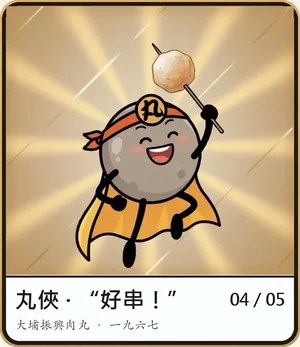
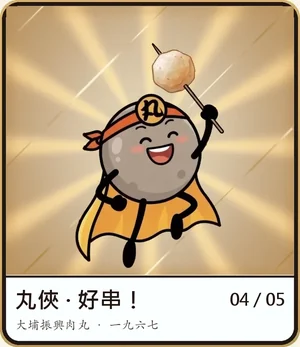
集卡活動頁：好串卡名去掉引號

Changed region(s): [[0.24, 0.8357, 0.48, 0.8934], [0.51, 0.8357, 0.6, 0.8934]]

diff --git a/index.html b/index.html
@@ -688,7 +688,7 @@
     { id:'A', name:'大埔振興 · 王牌！', rank:'萬能', img:'assets/card_a.webp?v=20261117c', thumb:'assets/thumb_a.webp?v=20261117c' },
     { id:'B', name:'丸俠 · yummy！',  rank:'普通', img:'assets/card_b.webp?v=20261116d', thumb:'assets/thumb_b.webp?v=20261116d' },
     { id:'C', name:'魚丸隊長 · 飛行！', rank:'稀有', img:'assets/card_c.webp?v=20261117d', thumb:'assets/thumb_c.webp?v=20261117d' },
-    { id:'D', name:'丸俠 · “好串！”',  rank:'稀有', img:'assets/card_d.webp?v=20261117c', thumb:'assets/thumb_d.webp?v=20261117c' },
+    { id:'D', name:'丸俠 · 好串！',   rank:'稀有', img:'assets/card_d.webp?v=20261117d', thumb:'assets/thumb_d.webp?v=20261117d' },
     /* ★ 隱藏款：雙角色同框。卡面圖未出，ready:false ⇒ 卡冊照樣顯示第 5 格（鎖定態）、但不進入抽卡池。
        出圖後把 card_e.webp / thumb_e.webp 放進 assets，並把 ready 改成 true 即可啟用。 */
     { id:'E', name:'雙雄同框', rank:'隱藏', ready:false,
